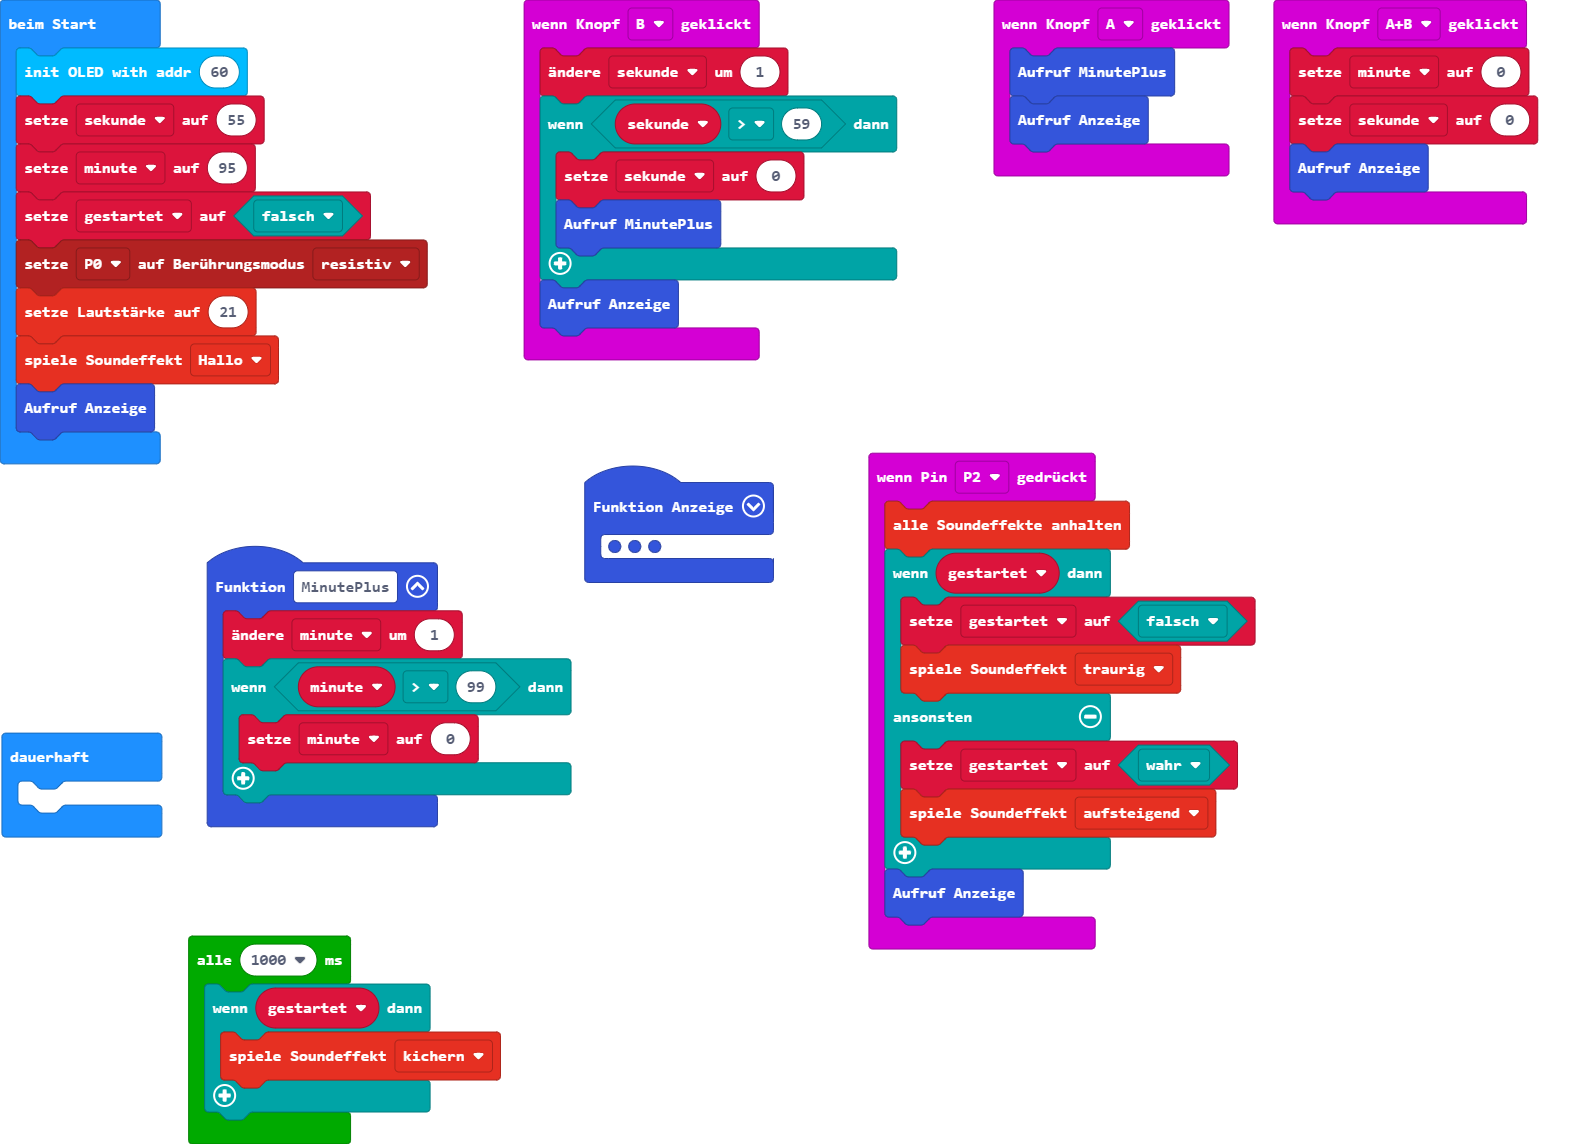
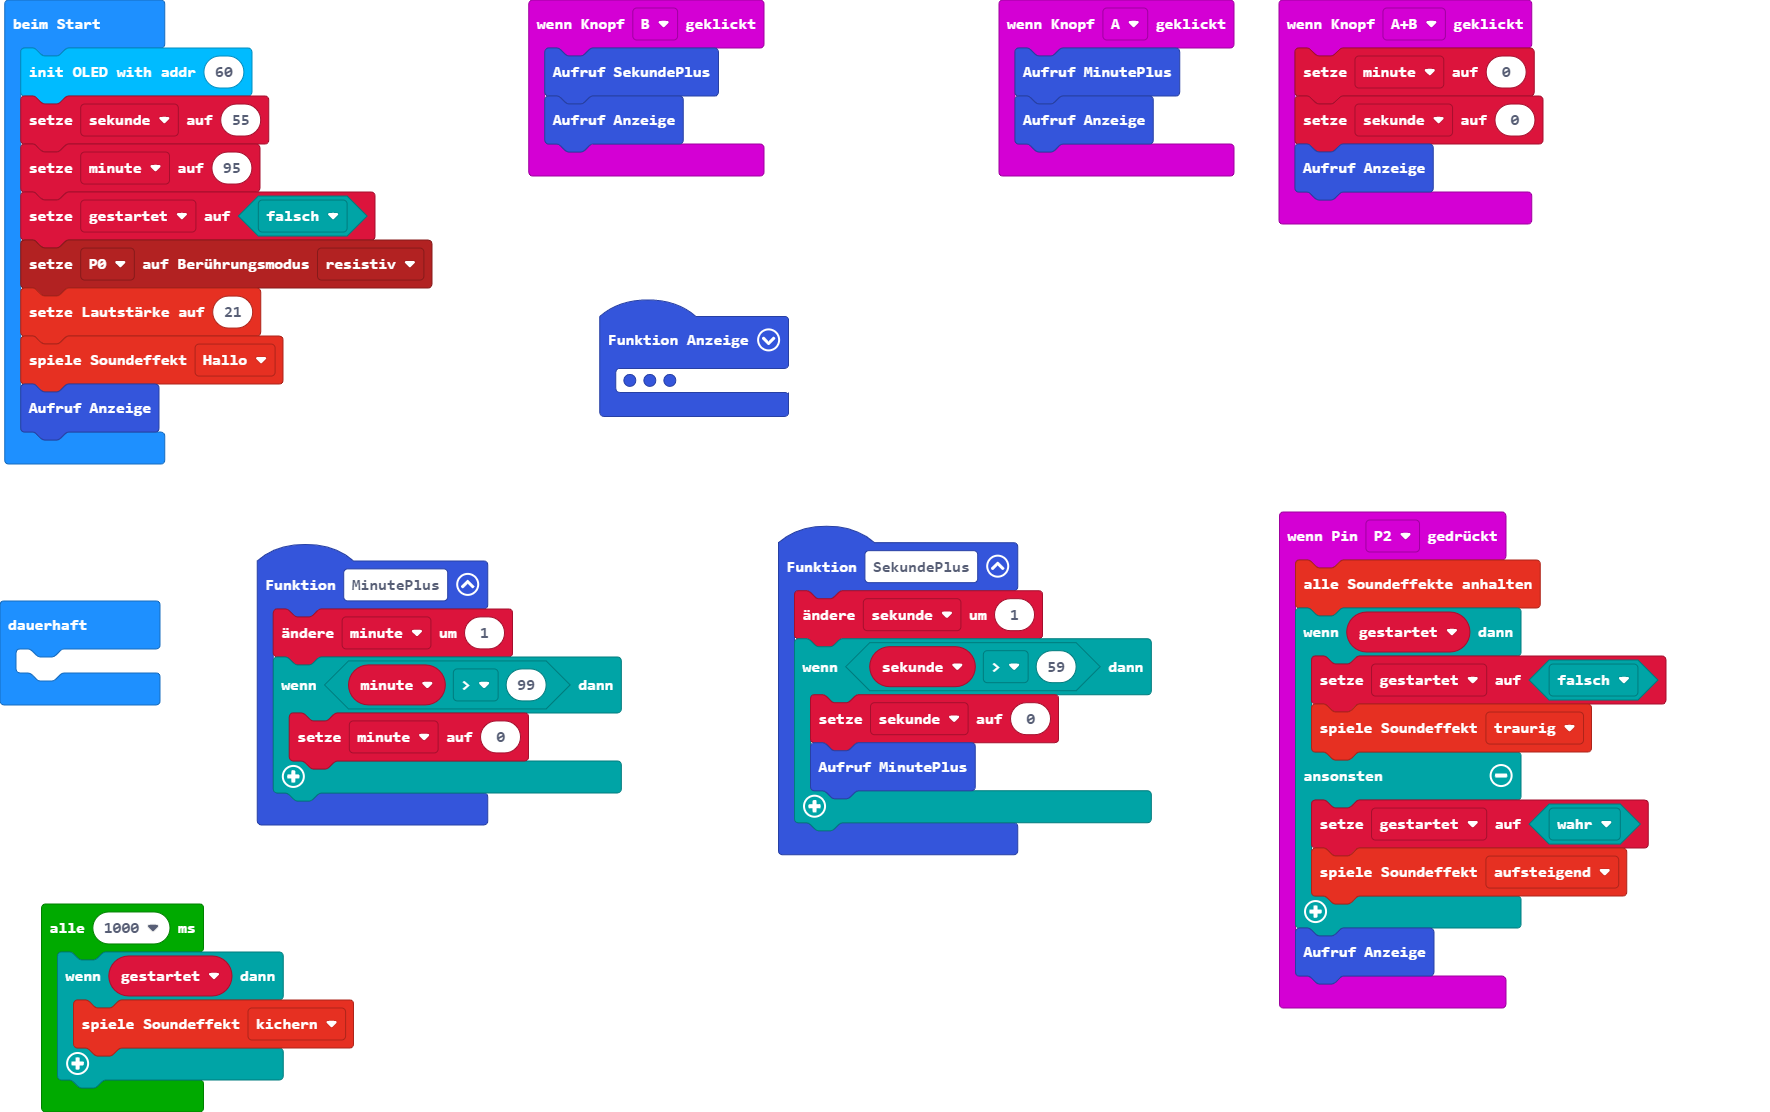
Aktualisiere pxt.json, main.blocks, main.ts, main.py

diff --git a/main.ts b/main.ts
@@ -25,13 +25,16 @@ input.onButtonPressed(Button.AB, function () {
     Anzeige()
 })
 input.onButtonPressed(Button.B, function () {
+    SekundePlus()
+    Anzeige()
+})
+function SekundePlus () {
     sekunde += 1
     if (sekunde > 59) {
         sekunde = 0
         MinutePlus()
     }
-    Anzeige()
-})
+}
 function Anzeige () {
     OLED_I2C.clear()
     OLED_I2C.number_32x40(

diff --git a/main.py b/main.py
@@ -1,0 +1,70 @@
+def on_button_pressed_a():
+    MinutePlus()
+    Anzeige()
+input.on_button_pressed(Button.A, on_button_pressed_a)
+
+def MinutePlus():
+    global minute
+    minute += 1
+    if minute > 99:
+        minute = 0
+
+def on_pin_pressed_p2():
+    global gestartet
+    music.stop_all_sounds()
+    if gestartet:
+        gestartet = False
+        soundExpression.sad.play()
+    else:
+        gestartet = True
+        soundExpression.soaring.play()
+    Anzeige()
+input.on_pin_pressed(TouchPin.P2, on_pin_pressed_p2)
+
+def on_button_pressed_ab():
+    global minute, sekunde
+    minute = 0
+    sekunde = 0
+    Anzeige()
+input.on_button_pressed(Button.AB, on_button_pressed_ab)
+
+def on_button_pressed_b():
+    global sekunde
+    sekunde += 1
+    if sekunde > 59:
+        sekunde = 0
+        MinutePlus()
+    Anzeige()
+input.on_button_pressed(Button.B, on_button_pressed_b)
+
+def Anzeige():
+    OLED_I2C.clear()
+    OLED_I2C.number_32x40(0, 12, minute, 1)
+    OLED_I2C.number_32x40(67, 12, sekunde, 1)
+    OLED_I2C.rect(62, 18, 66, 24, 1)
+    OLED_I2C.rect(62, 35, 66, 41, 1)
+    OLED_I2C.draw()
+    if gestartet:
+        basic.show_icon(IconNames.YES)
+    else:
+        basic.show_icon(IconNames.NO)
+gestartet = False
+minute = 0
+sekunde = 0
+OLED_I2C.init(60)
+sekunde = 55
+minute = 95
+gestartet = False
+pins.touch_set_mode(TouchTarget.P0, TouchTargetMode.RESISTIVE)
+music.set_volume(21)
+soundExpression.hello.play()
+Anzeige()
+
+def on_every_interval():
+    if gestartet:
+        soundExpression.giggle.play()
+loops.every_interval(1000, on_every_interval)
+
+def on_forever():
+    pass
+basic.forever(on_forever)
